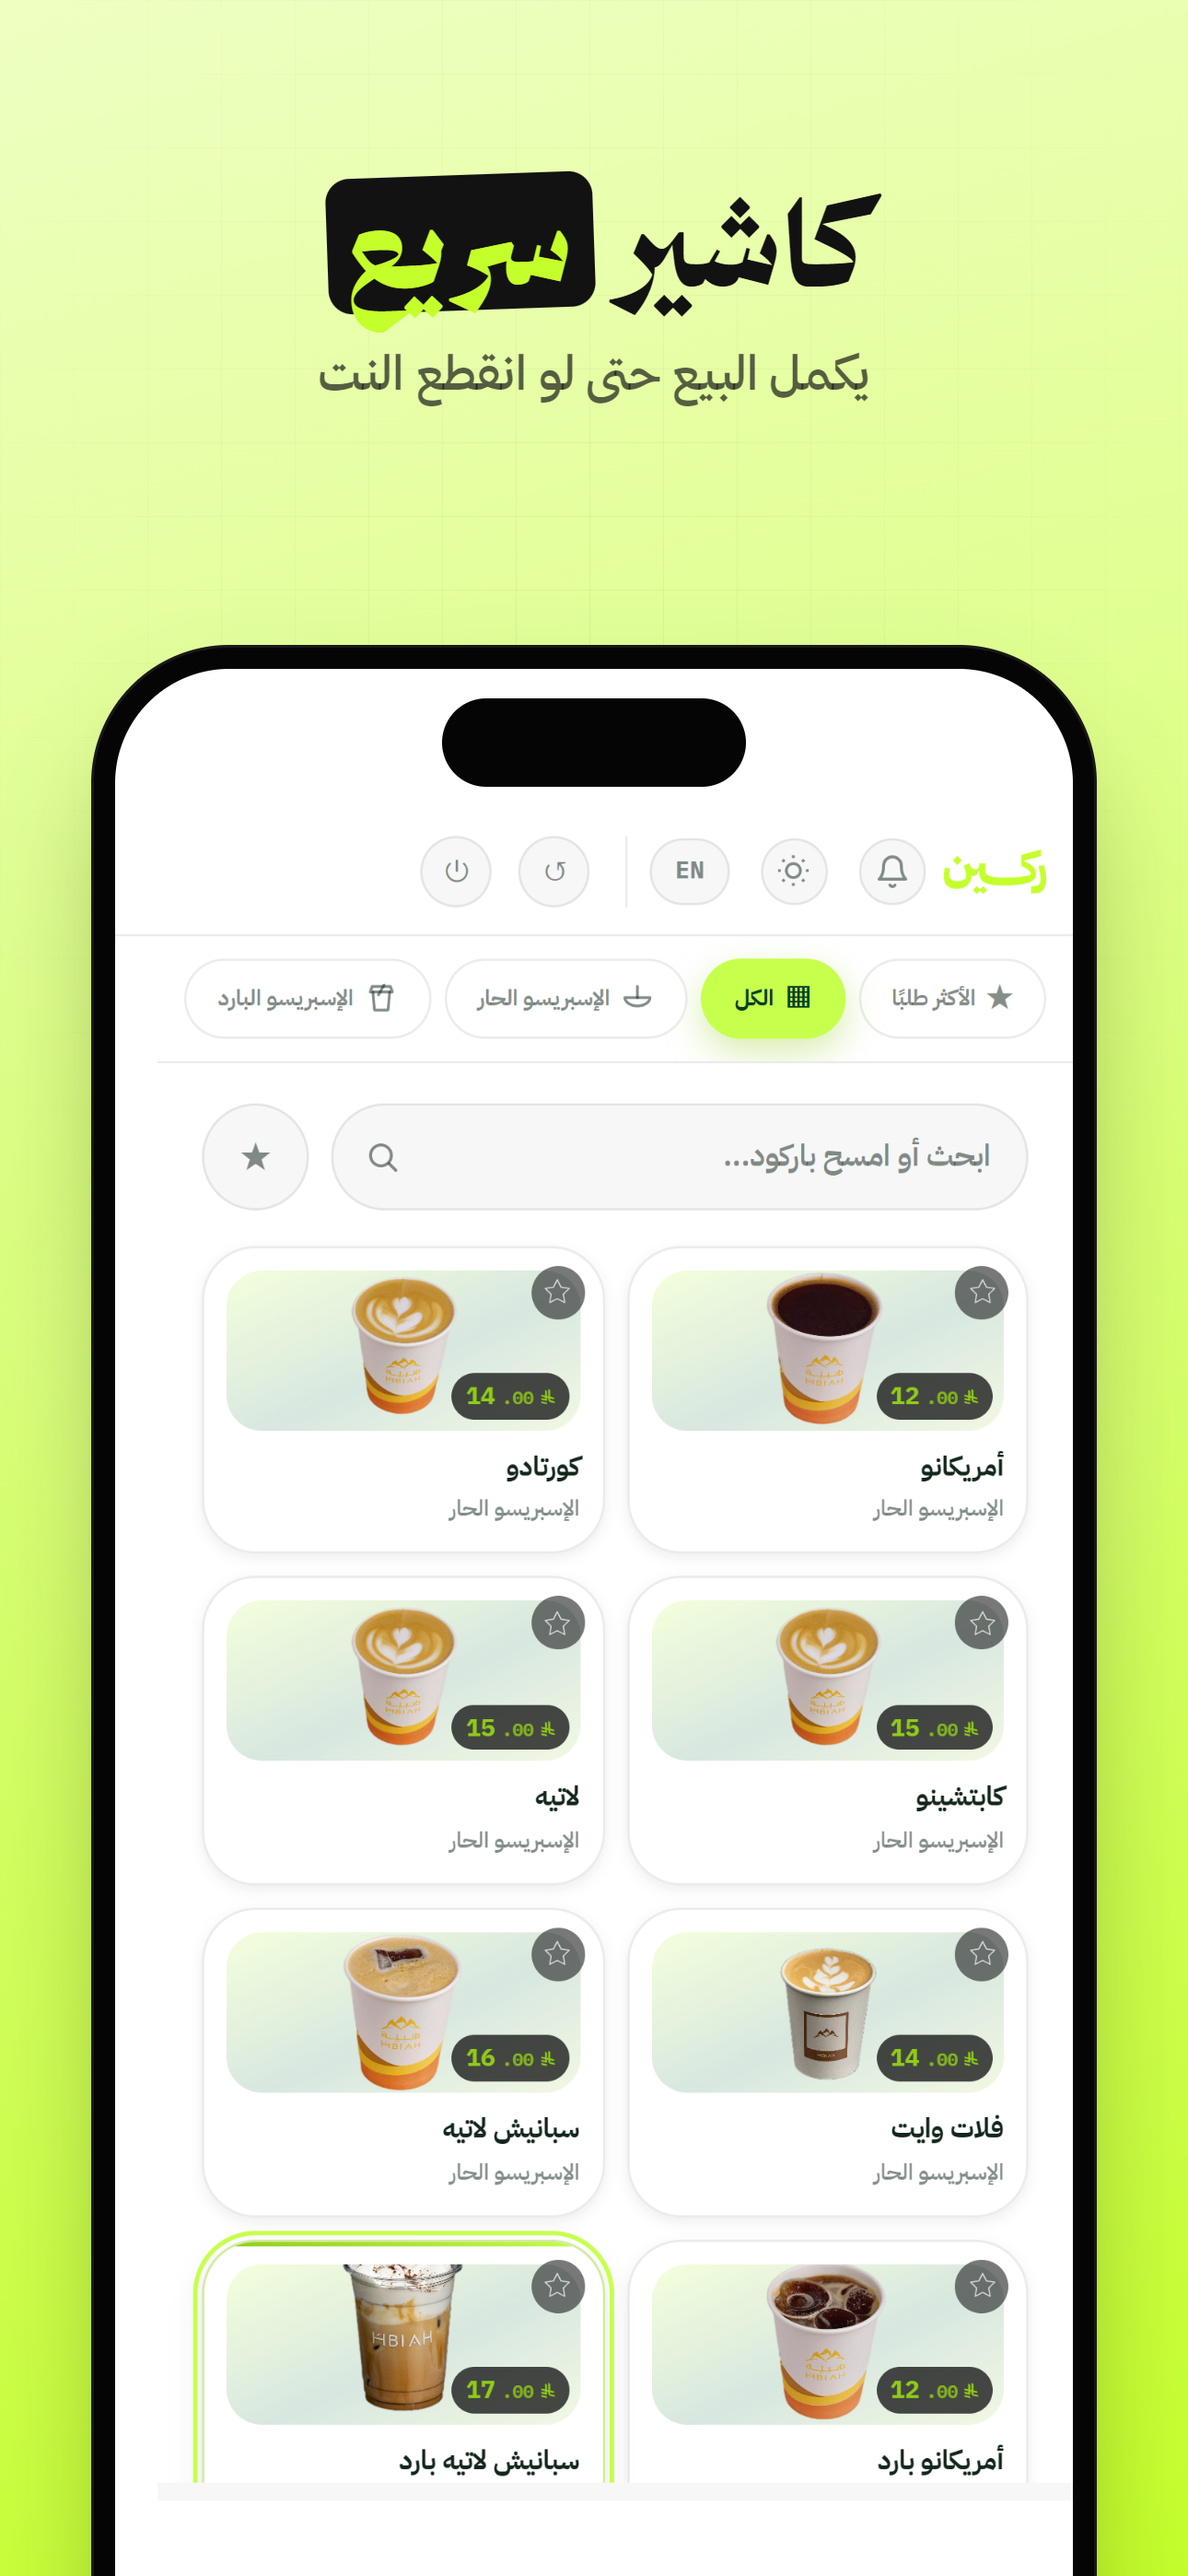
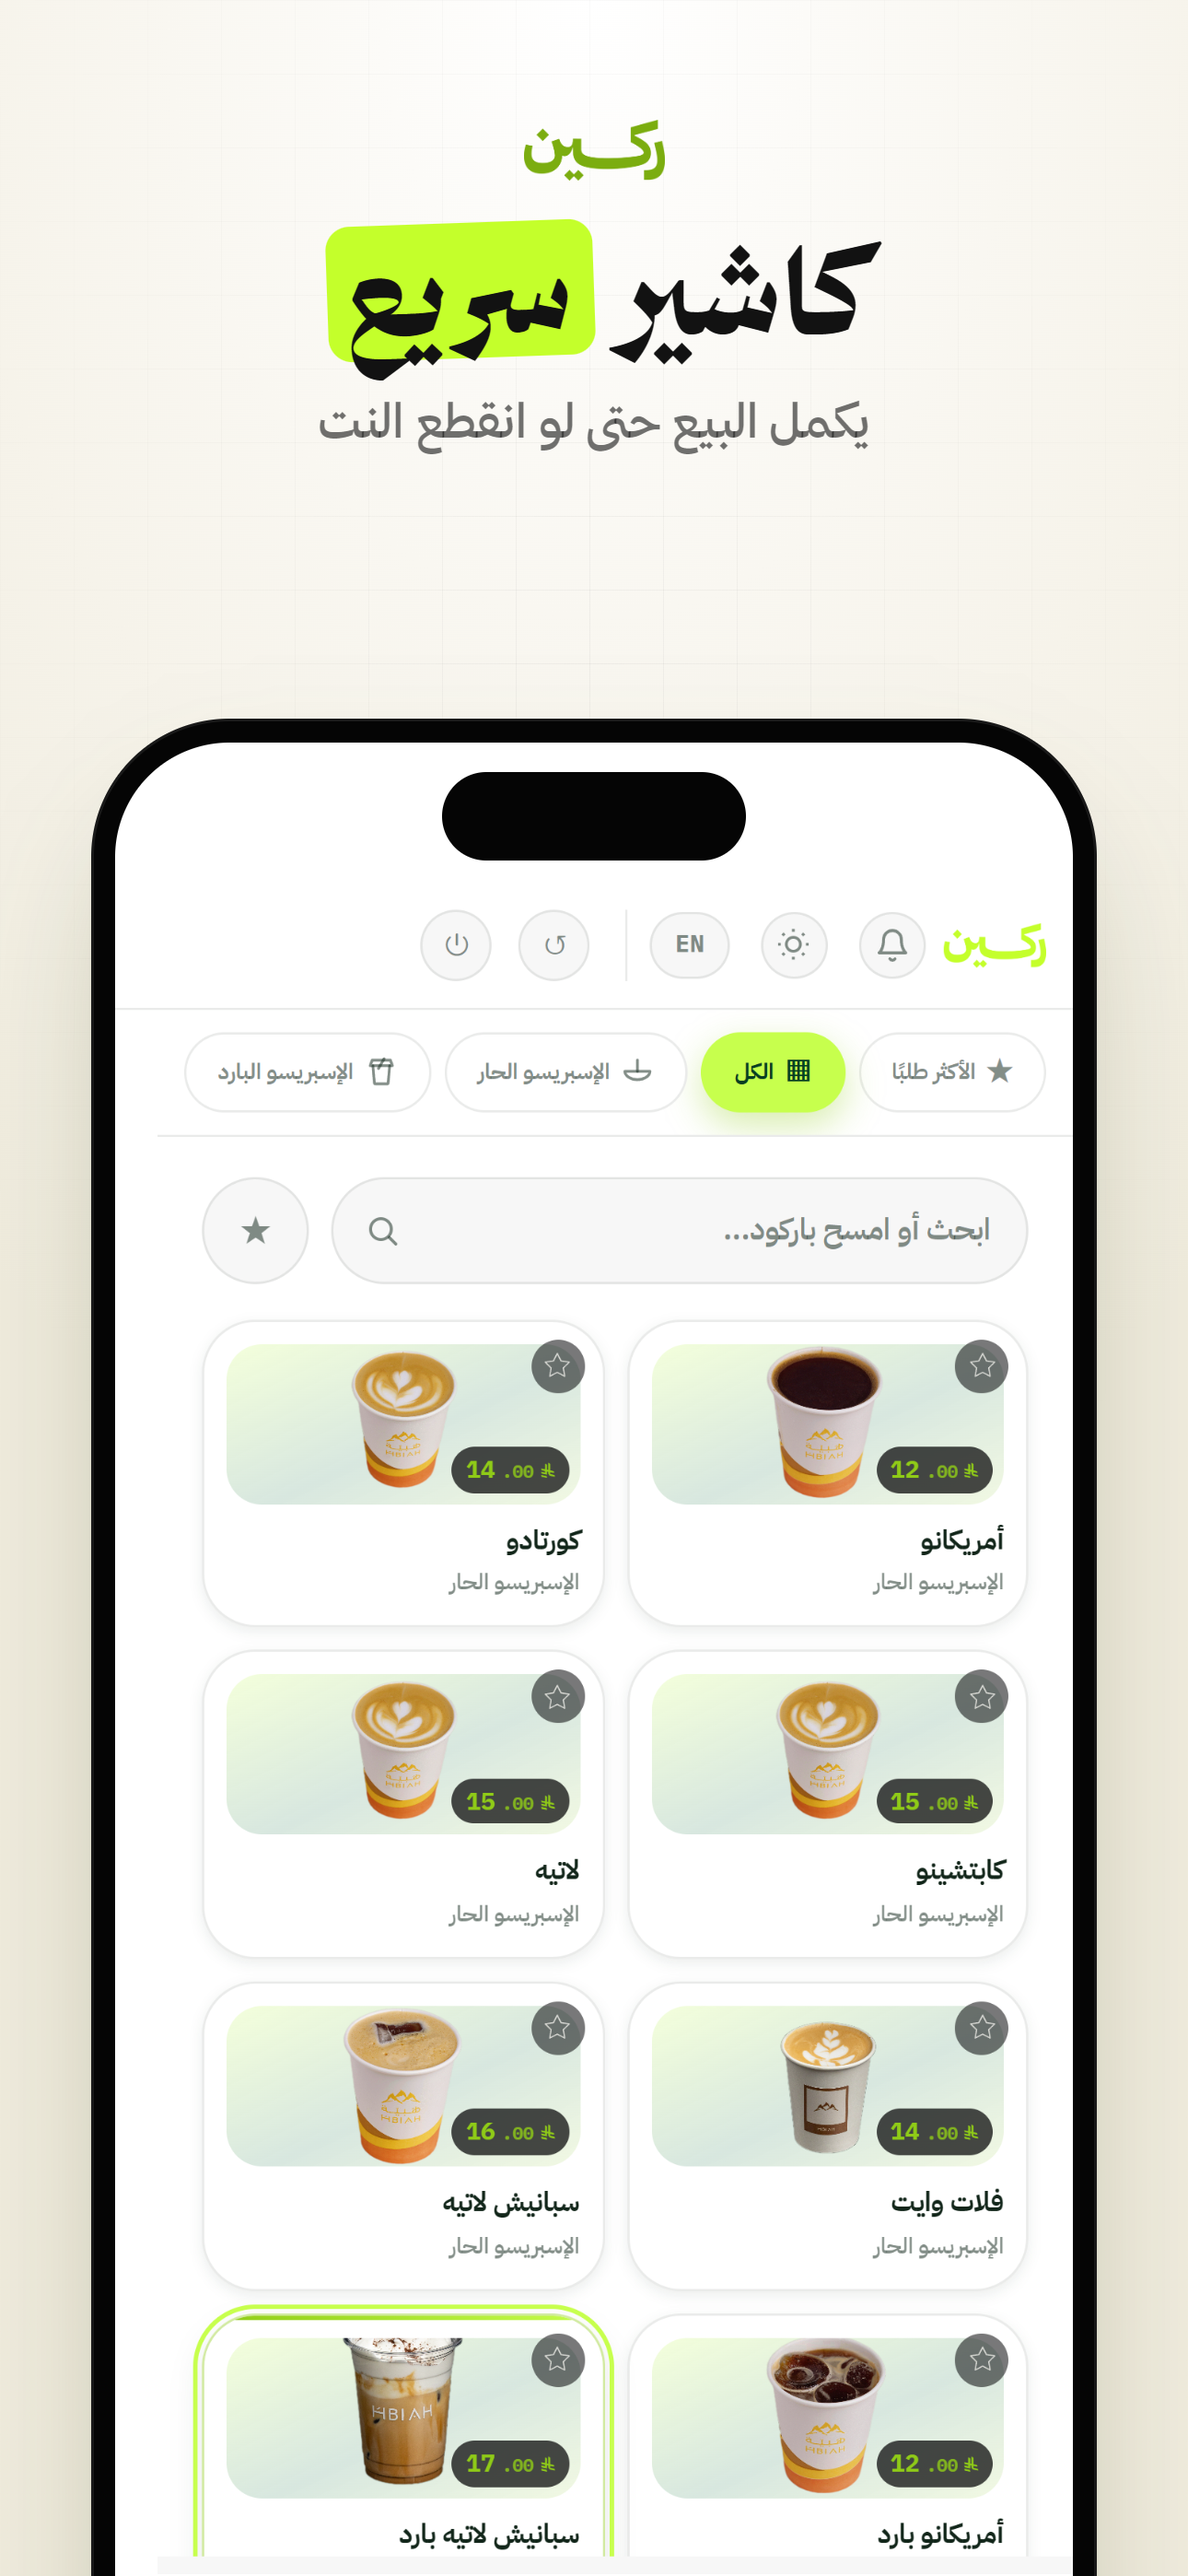
App Store: صور المتجر بالتصميم الكريمي (شعار ركين، شريط ليموني)، مع ثيمات للمقارنة في الأداة

diff --git a/docs/appstore/metadata.md b/docs/appstore/metadata.md
@@ -142,4 +142,4 @@ The interface is in Arabic; English can be switched from the top bar (EN).
 الترتيب: الكاشير ← الدفع ← طلب أونلاين وصل ← الطاولات ← العملاء ونقاطهم.
 
 كلها شاشات الكاشير الحقيقية (نفس الكود والتصميم اللي في التطبيق، والنصوص نفسها موجودة في التطبيق: PaymentModal، IncomingOrderModal، TablesScreen، CustomerPickerModal)، ببيانات تجريبية بأصناف هَبيّة.
-لإعادة توليدها بعد أي تغيير في الشكل: شغّل السيرفر المحلي، ثم `node tools/appstore-shots/scenes.cjs ipad` و `iphone` ثم `node tools/appstore-shots/make.cjs`.
+لإعادة توليدها بعد أي تغيير في الشكل: شغّل السيرفر المحلي، ثم `node tools/appstore-shots/scenes.cjs ipad` و `iphone` ثم `THEME=cream node tools/appstore-shots/make.cjs`.
